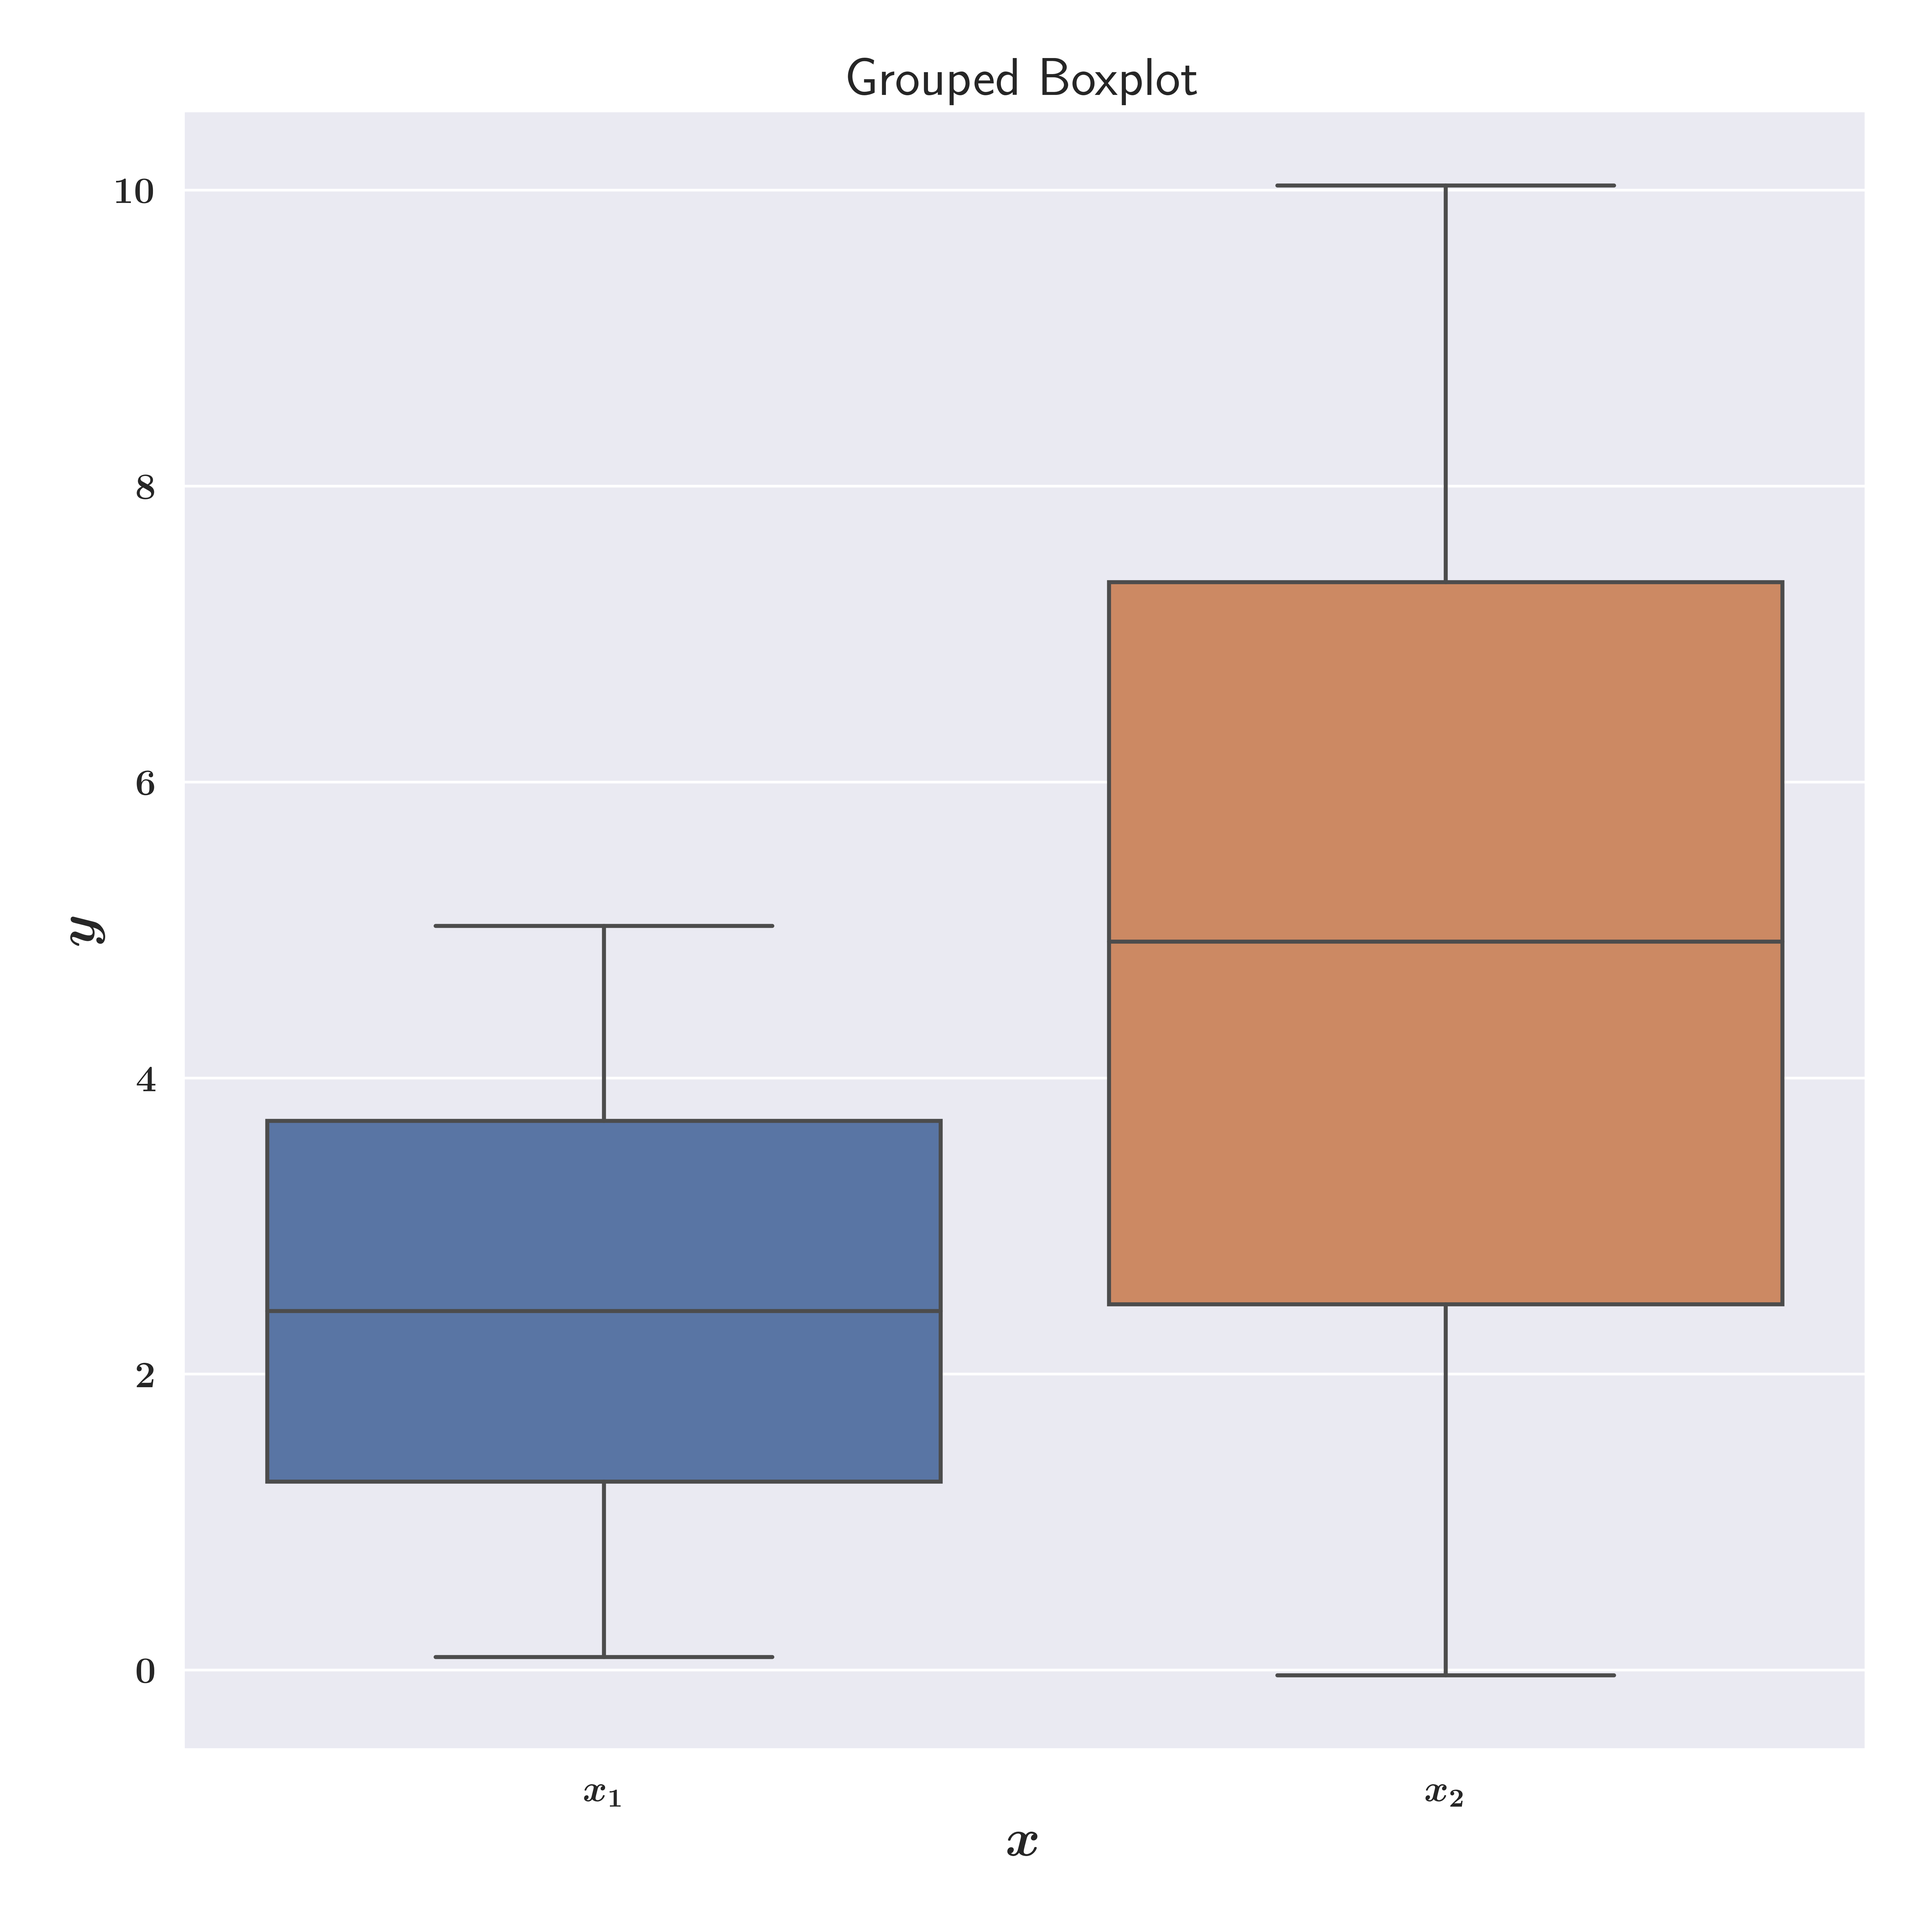
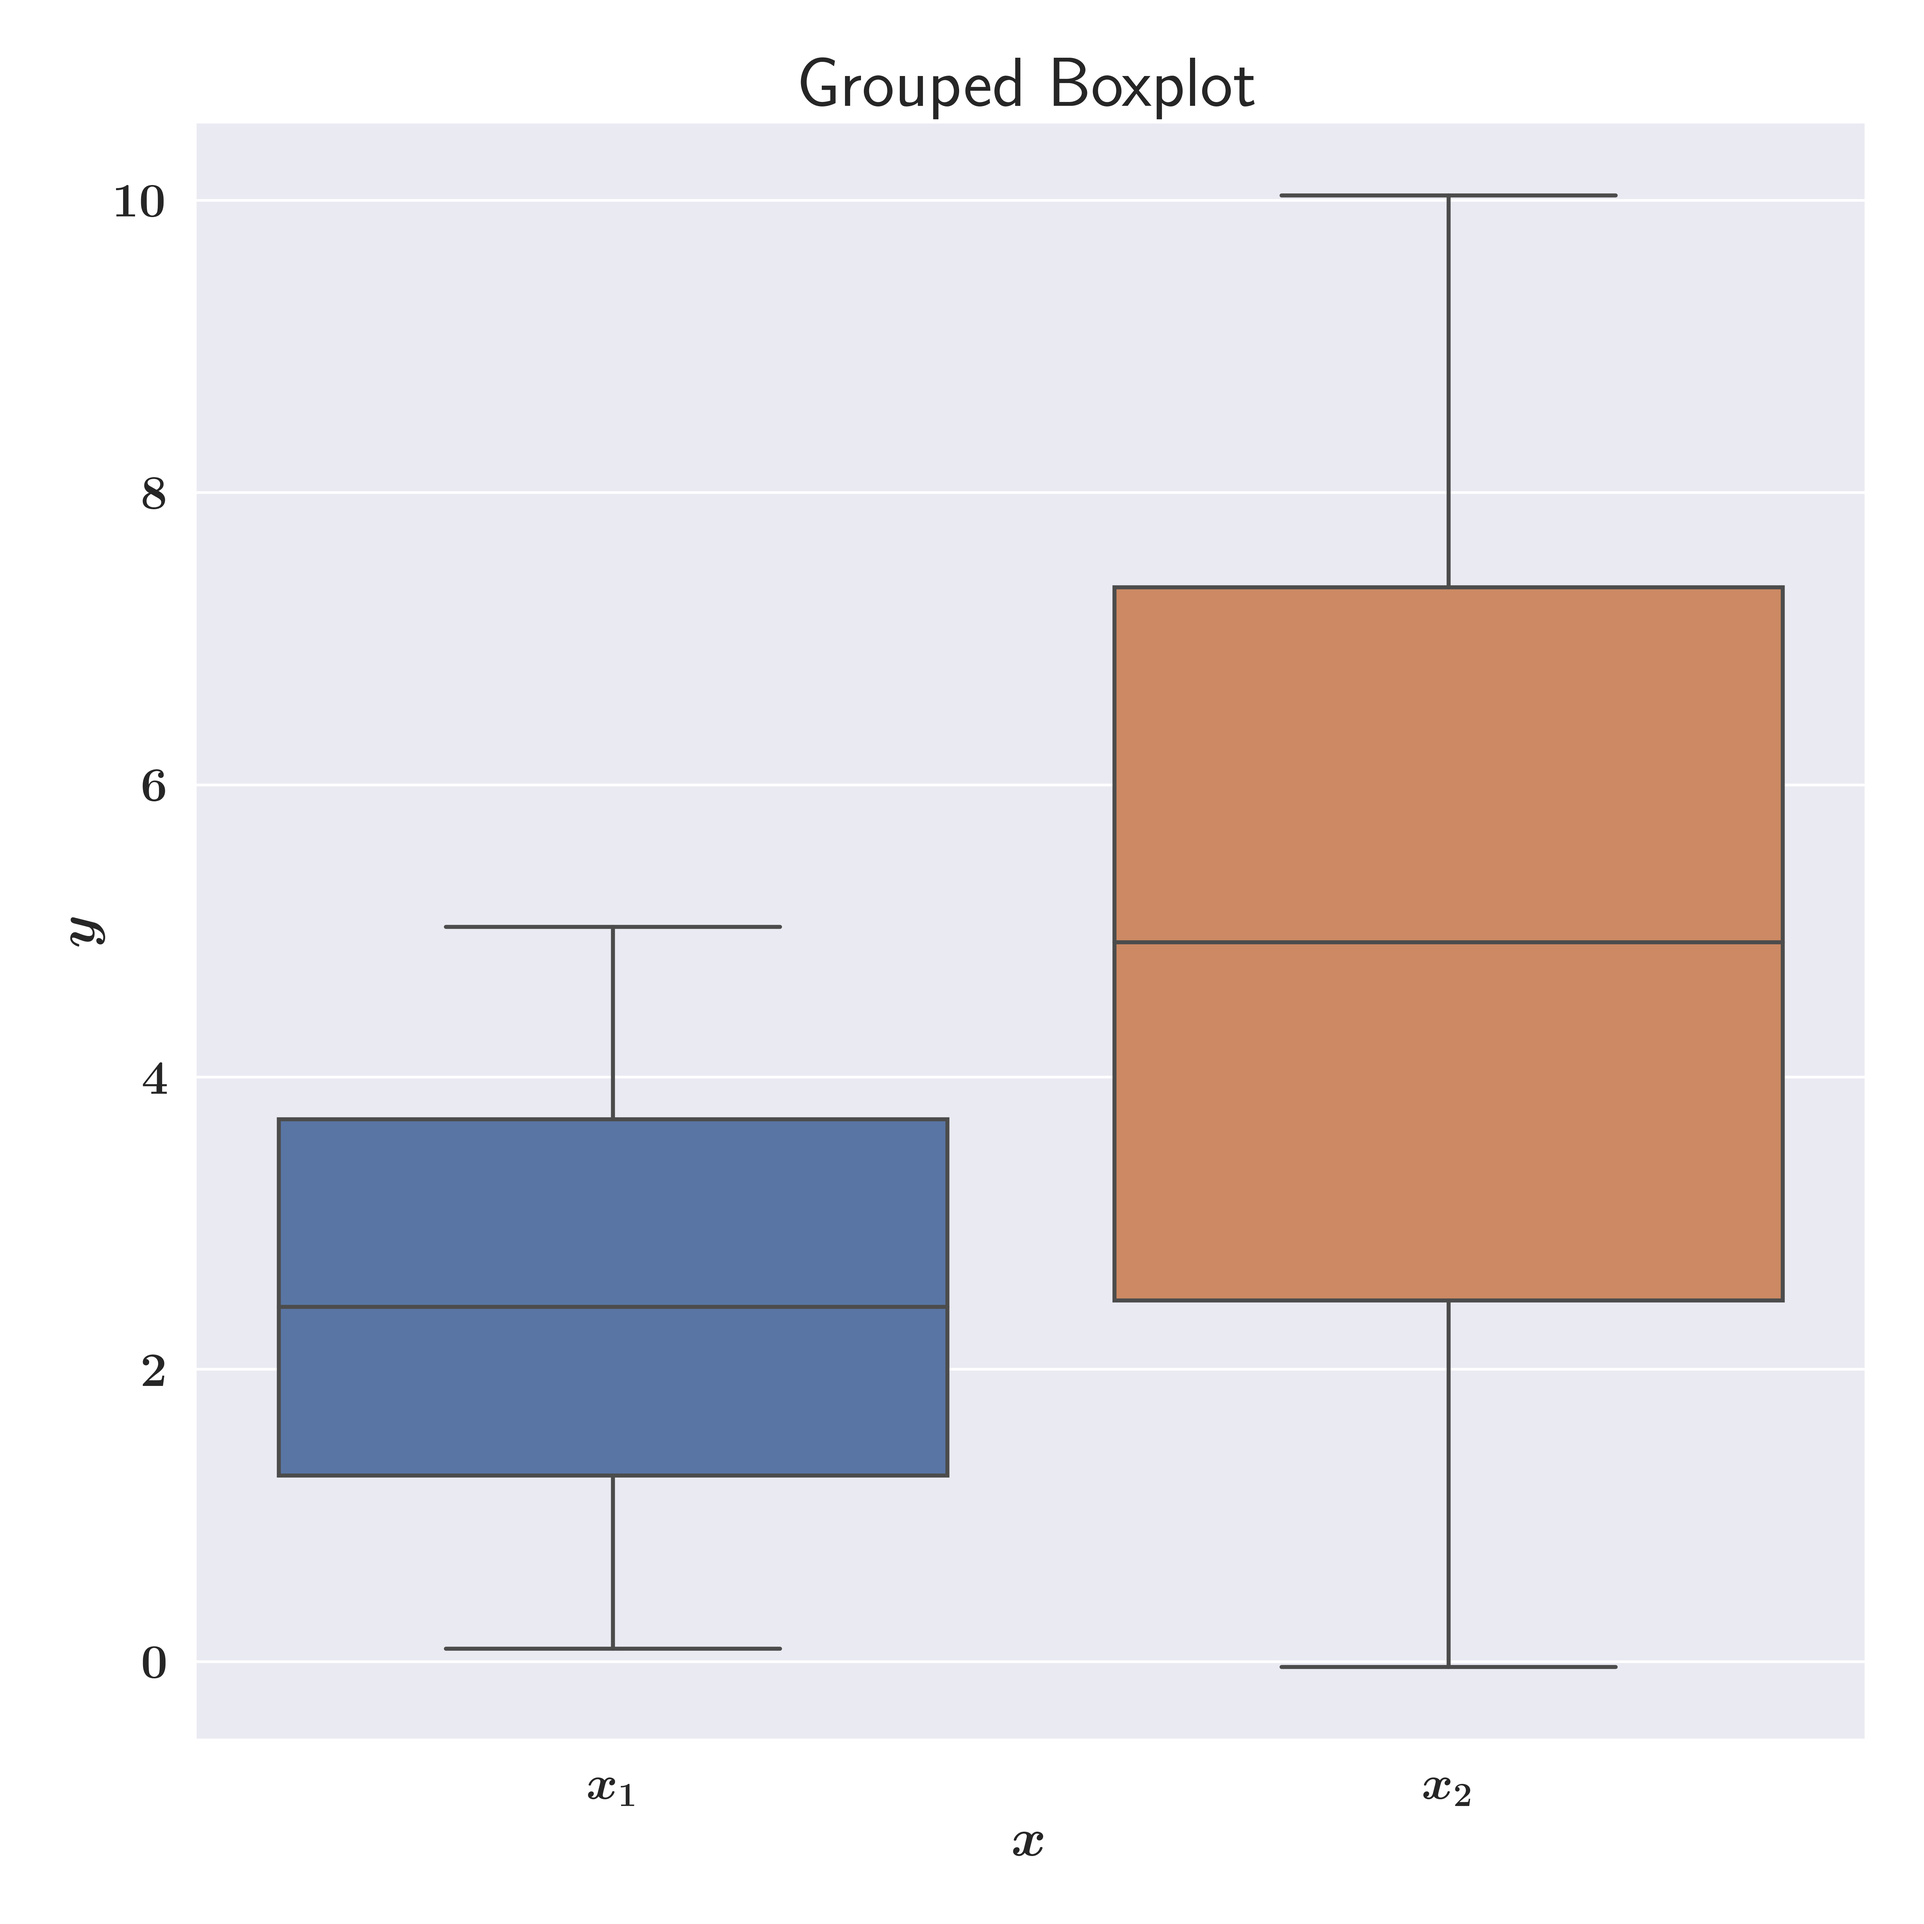
Fixed errors after merge

diff --git a/examples/boxplot_examples.py b/examples/boxplot_examples.py
@@ -55,6 +55,32 @@ def test_grouped_boxplot(df, x_var, y_var) -> None:
     save_fig(fig, save_loc, dpi=600)
 
 
+def test_stacked_boxplot(df, x_var, y_var, y_label) -> None:
+    """
+    Tests grouped boxplot
+    :param df: dataframe
+    :param x_var: x-axis variable
+    :param y_var: y-axis variable
+    :param hue: hue variable
+    :return: None
+    """
+
+    fig, ax = plt.subplots(figsize=(10, 10))
+    # Create a grouped boxplot
+    plot_stacked_boxplot(
+        df=df,
+        x_var=x_var,
+        y_var=y_var,
+        title_str="Stacked Boxplot",
+        ax=ax,
+        y_label=y_label,
+    )
+
+    # Save the plot
+    save_loc = os.path.join(example_plot_folder_loc, "boxplots", "stacked_boxplot.png")
+    save_fig(fig, save_loc, dpi=600)
+
+
 if __name__ == "__main__":
     # Set seed for reproducibility
     np.random.seed(0)
@@ -81,3 +107,9 @@ if __name__ == "__main__":
 
     # Test grouped boxplot
     test_grouped_boxplot(df=df, x_var="$x$", y_var="$y$")
+
+    # Test stacked boxplot
+    df["$y_2$"] = df["$y$"] + 0.02
+    df["$y_1$"] = df["$y$"] + 0.02
+    df = df.iloc[:10, :]
+    test_stacked_boxplot(df=df, x_var="$x$", y_var=["$y_1$", "$y_2$"], y_label="$y$")

diff --git a/plotting_utils/general_utils.py b/plotting_utils/general_utils.py
@@ -27,9 +27,15 @@ def set_axis_infos(
     xlim=None,
     ylim=None,
     legend=None,
-    title: str = None,
+    title_str: str = None,
     xticks=None,
     yticks=None,
+    xlabel_size: int = 20,
+    ylabel_size: int = 20,
+    title_size: int = 26,
+    ticks_size: int = 18,
+    legend_size: int = 20,
+    legend_loc: str = "best",
 ) -> None:
     """
     Set axis information
@@ -39,6 +45,11 @@ def set_axis_infos(
     :param xlim: x-axis limits
     :param ylim: y-axis limits
     :param legend: legend
+    :param title_str: title
+    :param xticks: x-axis ticks
+    :param yticks: y-axis ticks
+    :param xlabel_size: x-axis label size
+    :param ylabel_size: y-axis label size
     :param title_str: title
     :param xticks: x-axis ticks
     :param yticks: y-axis ticks
@@ -70,6 +81,6 @@ def set_axis_infos(
     if ticks_size:
         ax.tick_params(axis="both", which="major", labelsize=ticks_size)
     if legend:
-        ax.legend(legend)
-    if title:
-        ax.set_title(title)
+        ax.legend(legend, fontsize=legend_size, loc=legend_loc)
+    if title_str:
+        ax.set_title(title_str, fontsize=title_size)

diff --git a/plotting_utils/lineplot_utils.py b/plotting_utils/lineplot_utils.py
@@ -28,7 +28,7 @@ def basic_plot_ts(
     # Plot time series
     ax.plot(ts_vector, lw=lw)
 
-    set_axis_infos(ax, xlabel=xlabel, ylabel=ylabel, ylim=ylim, title=title_str)
+    set_axis_infos(ax, xlabel=xlabel, ylabel=ylabel, ylim=ylim, title_str=title_str)
 
 
 def overlaid_ts(

diff --git a/plotting_utils/histogram_utils.py b/plotting_utils/histogram_utils.py
@@ -76,5 +76,5 @@ def plot_several_pdf(
 
     # Set axis infos
     set_axis_infos(
-        ax, xlabel=xlabel, ylabel=ylabel, title=title_str, xlim=xlim, legend=legend
+        ax, xlabel=xlabel, ylabel=ylabel, title_str=title_str, xlim=xlim, legend=legend
     )

diff --git a/plotting_utils/violinplot_utils.py b/plotting_utils/violinplot_utils.py
@@ -45,7 +45,7 @@ def plot_grouped_violinplot(
             )
 
     # Set axis infos
-    set_axis_infos(ax, ylim=ylim, title=title_str)
+    set_axis_infos(ax, ylim=ylim, title_str=title_str)
 
 
 def plot_paired_violinplot(

diff --git a/plotting_utils/boxplot_utils.py b/plotting_utils/boxplot_utils.py
@@ -52,7 +52,7 @@ def plot_paired_boxplot(
             )
 
     # Set axis infos
-    set_axis_infos(ax, ylim=ylim, title=title_str)
+    set_axis_infos(ax, ylim=ylim, title_str=title_str)
 
 
 """
